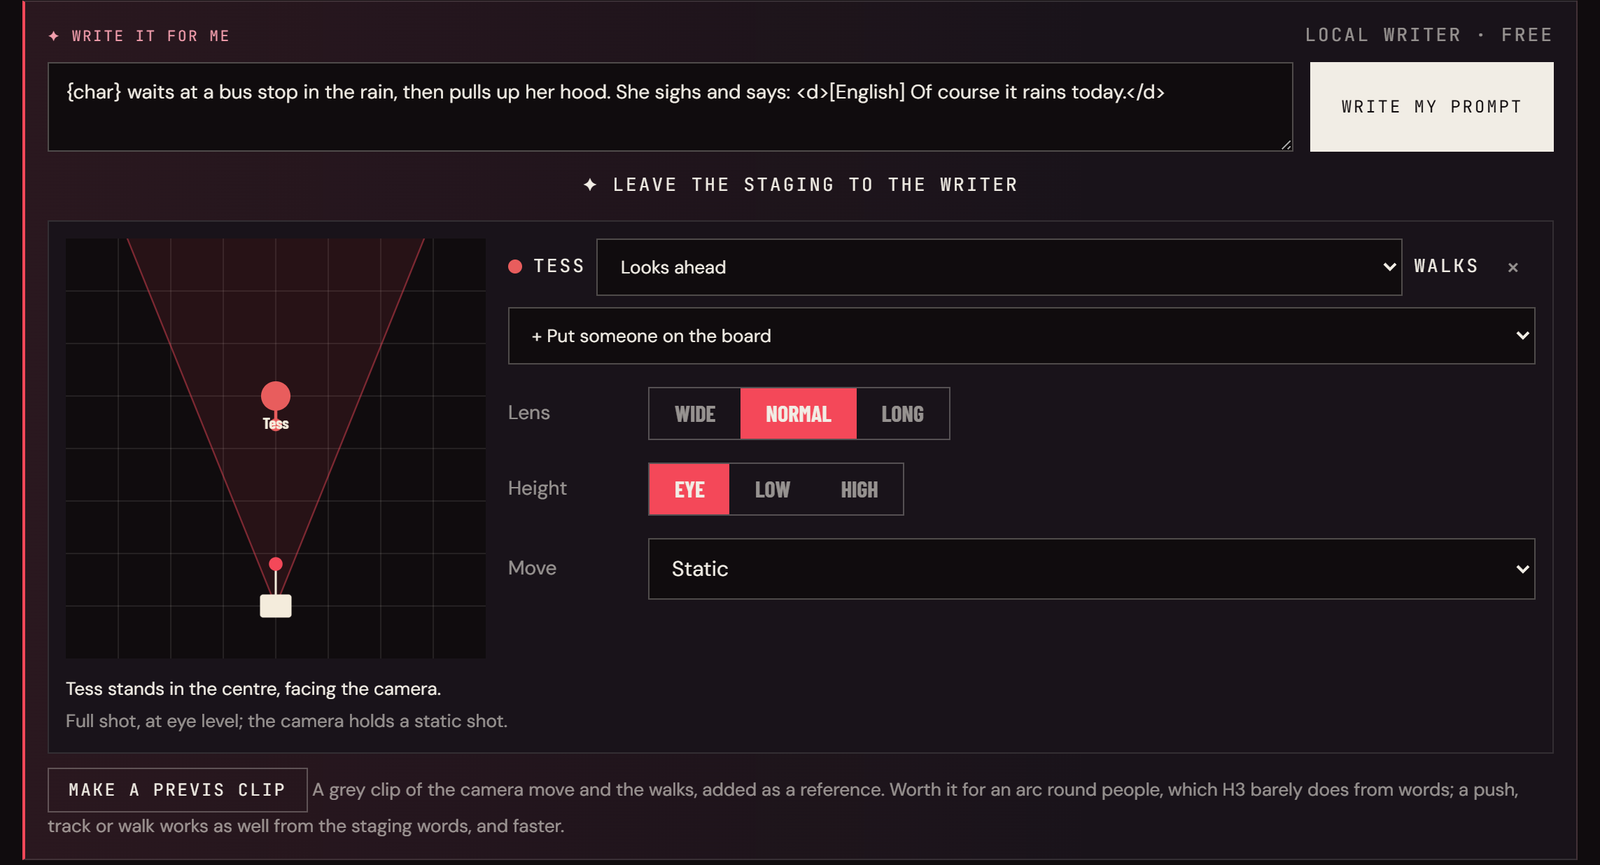
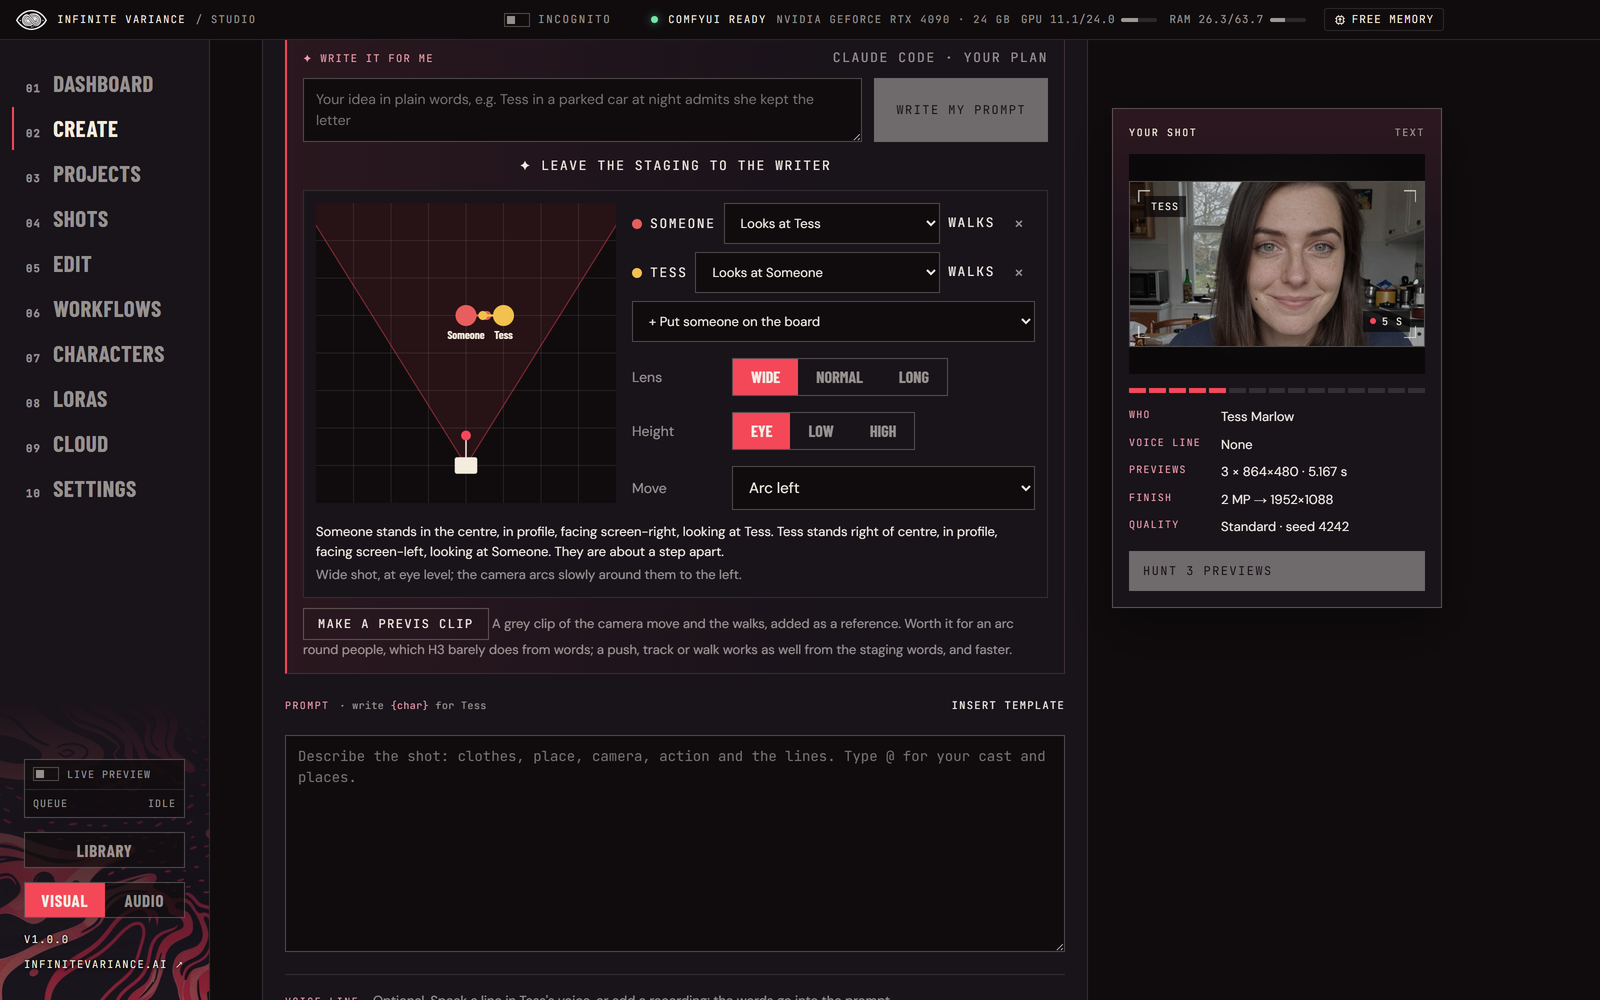
README: update the four pictures that still showed the old interface
The banner now frames the 1.0 dashboard (with its "New in 1.0" strip) and
reads "Infinite Variance / 1.0". The LoRAs page, a LoRA's details pop-up and
the staging board on Create are recaptured from 1.0 at 2x.

diff --git a/README.md b/README.md
@@ -138,7 +138,7 @@ card. See [what's new in 1.0](#whats-new-in-10).
   </tr>
   <tr>
     <td width="50%"><img src="docs/images/image.png" alt="Create in Image mode: Generate or Edit, and eight image model families"></td>
-    <td width="50%"><img src="docs/images/staging-board.png" alt="The staging board: Tess on a top-down floor with the camera's view, lens, height and move, and the words it becomes"></td>
+    <td width="50%"><img src="docs/images/staging-board.png" alt="The staging board on Create: Tess and a second person on a top-down floor, a wide lens and an arcing camera, and the staging words it writes"></td>
   </tr>
   <tr>
     <td align="center"><sub>Pictures too: generate or edit on eight model families</sub></td>
@@ -153,7 +153,7 @@ card. See [what's new in 1.0](#whats-new-in-10).
     <td align="center"><sub>Train free on your PC, or rent a cloud GPU</sub></td>
   </tr>
   <tr>
-    <td width="50%"><img src="docs/images/loras.png" alt="LoRAs: Civitai's cinematic MiniMax H3 LoRAs as tall picture cards"></td>
+    <td width="50%"><img src="docs/images/loras.png" alt="LoRAs: a Civitai search for painting styles, shown as tall picture cards under the page's own banner"></td>
     <td width="50%"><img src="docs/images/lora-details.png" alt="A LoRA's pop-up: its example clips, maker, trigger words, licence, file and tags"></td>
   </tr>
   <tr>
